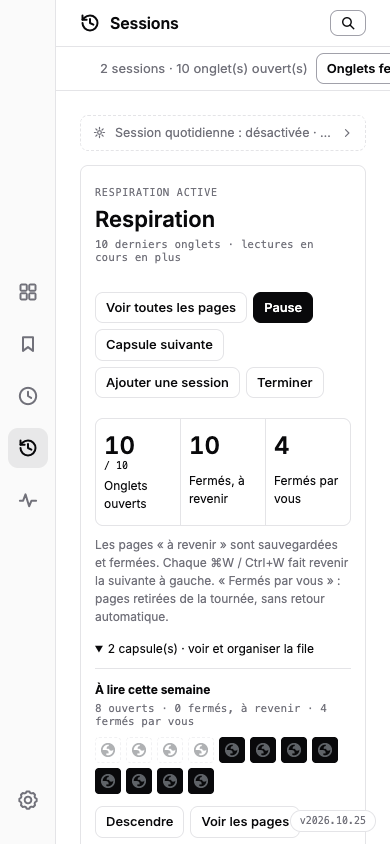
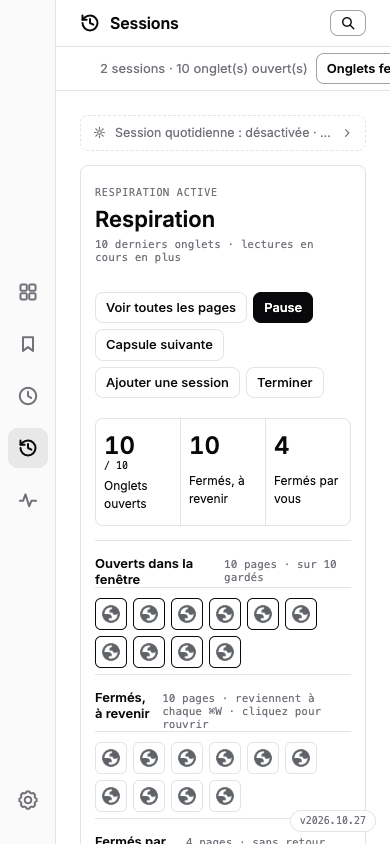
maj: respiration en trois sections par etat avec toutes les favicones et sessions fluide pendant une restauration massive (lots, squelette, fenetres en direct)

Changed region(s): [[0.2462, 0.6161, 0.8923, 1.0]]

diff --git a/extension/sessions.js b/extension/sessions.js
@@ -51,12 +51,69 @@
   const esc = (s) => String(s ?? "").replace(/[&<>"']/g, (c) => ({ "&": "&amp;", "<": "&lt;", ">": "&gt;", '"': "&quot;", "'": "&#39;" }[c]));
   const root = () => document.getElementById("sessions-root");
 
+  /* Squelettes de premier chargement : un écran de structure plutôt qu'une
+     page vide pendant que le service worker répond. Remplacés au premier rendu. */
+  function showSkeleton() {
+    const host = root();
+    if (!host || library) return;
+    const resp = document.getElementById("respiration-root");
+    if (resp && !resp.childElementCount) {
+      resp.innerHTML = `<section class="respiration-card tl-skel" aria-hidden="true"><div class="respiration-head"><div class="tl-sk-col"><span class="tl-sk-line" style="width:130px"></span><span class="tl-sk-line" style="width:230px"></span></div></div><div class="respiration-stats"><div><span class="tl-sk-line" style="width:55%"></span></div><div><span class="tl-sk-line" style="width:55%"></span></div><div><span class="tl-sk-line" style="width:55%"></span></div></div></section>`;
+    }
+    if (host.childElementCount) return;
+    host.innerHTML = Array.from({ length: 3 }, () => `<section class="tl-session tl-skel" aria-hidden="true"><div class="tl-head"><span class="tl-sk-line" style="width:34%"></span></div><div class="tl-body"><figure class="tl-preview tl-sk-block"></figure><div class="tl-list">${Array.from({ length: 4 }, () => `<div class="tl-row tl-sk-row"><span class="tl-sk-dot"></span><span class="tl-sk-line" style="width:48%"></span><span class="tl-sk-line" style="width:12%"></span></div>`).join("")}</div></div></section>`).join("");
+  }
+
+  /* Bandeau d'action longue (restauration, fusion…) : visible au-dessus de la
+     timeline sans bloquer l'écran, retiré dès la fin de l'action. */
+  let busyLabelActive = "";
+  function showBusyLabel(label = "") {
+    const host = root();
+    if (!host) return;
+    busyLabelActive = label;
+    let el = document.getElementById("tl-busy");
+    if (!label) { el?.remove(); return; }
+    if (!el) {
+      el = document.createElement("div");
+      el.id = "tl-busy";
+      el.setAttribute("role", "status");
+      host.prepend(el);
+    }
+    el.innerHTML = `${icon("clock", 13)} <span>${esc(label)}</span>`;
+  }
+
   async function request(type, payload = {}) {
-    if (type.startsWith("respiration-") && respirationProtocol !== 2)
-      throw new Error("Respiration n’est pas à jour : rechargez PK Web Memory dans chrome://extensions, puis rechargez cette page. Vos capsules sont conservées.");
+    if (type.startsWith("respiration-") && respirationProtocol !== 3)
+      throw new Error("Respiration vient d’être mise à jour : rechargez cette page (⌘R). La tournée et vos capsules sont conservées ; si le message revient, rechargez l’extension dans chrome://extensions.");
     const response = await chrome.runtime.sendMessage({ type, payload });
     if (!response?.ok) throw new Error(response?.error || "Le service worker ne répond pas. Rechargez l’extension.");
     return response.data;
+  }
+
+  /* Fenêtres et onglets vivants lus directement par la page : lecture pure,
+     aucun passage par le service worker — la section Sessions reste réactive
+     même pendant une rafale de créations d'onglets (restauration massive). */
+  async function localLive() {
+    try {
+      const [wins, groups] = await Promise.all([
+        chrome.windows.getAll({ populate: true, windowTypes: ["normal"] }),
+        chrome.tabGroups.query({}),
+      ]);
+      const byId = new Map(groups.map((group) => [group.id, group]));
+      return wins.filter((win) => !win.incognito).map((win) => ({
+        id: win.id, focused: win.focused,
+        ignored: win.tabs.filter((tab) => !C().tabURL(tab)).length,
+        tabs: win.tabs.filter((tab) => C().tabURL(tab)).map((tab) => {
+          const group = byId.get(tab.groupId);
+          return {
+            id: tab.id, windowId: win.id, url: C().tabURL(tab), originalUrl: tab.pendingUrl || tab.url,
+            title: tab.title || C().tabURL(tab), pinned: tab.pinned, active: tab.active,
+            discarded: tab.discarded, audible: tab.audible, lastAccessed: tab.lastAccessed,
+            group: group ? String(group.id) : "", groupTitle: group?.title || "", groupColor: group?.color || "grey",
+          };
+        }),
+      }));
+    } catch { return []; }
   }
 
   function toast(msg, undo) {
@@ -231,24 +288,36 @@
       host.innerHTML = `<section class="respiration-card"><div class="respiration-head"><div><span class="respiration-eyebrow">VOTRE NAVIGATION, PLUS LÉGÈRE</span><h2>Respiration</h2><p>Gardez les 10 derniers onglets. Fermez-en un avec ⌘W : le suivant revient tout seul.</p></div>${button("setup", "Activer Respiration", "", true)}</div>${q ? `<p class="respiration-note">La tournée précédente reste enregistrée dans vos sessions. ${button("resume", "Reprendre cette tournée")}</p>` : ""}</section>`;
       return;
     }
-    const waiting = q.entries.filter((e) => e.state === "pending").length;
-    const done = q.entries.filter((e) => e.state === "done").length;
+    const openEntries = q.entries.filter((e) => e.state === "open");
+    const pendingEntries = q.entries.filter((e) => e.state === "pending");
+    const doneEntries = q.entries.filter((e) => e.state === "done");
+    const outsideEntries = q.entries.filter((e) => e.state === "outside");
     const opened = windows.find((w) => w.id === q.windowId)?.tabs.length || 0;
     const complete = q.entries.every((e) => ["done", "outside"].includes(e.state));
-    const playing = q.entries.filter((e) => e.state === "open" && e.keepReason === "media").length;
+    const playing = openEntries.filter((e) => e.keepReason === "media").length;
     const label = q.paused ? "EN PAUSE" : opened > q.target + playing ? "RÉDUCTION INCOMPLÈTE" : complete ? "TOURNÉE TERMINÉE" : "RESPIRATION ACTIVE";
     const reasons = { media: "Lecture en cours (vidéo ou audio) · seule exception", changed: "Page modifiée pendant la réduction", refused: "Fermeture refusée par Chrome" };
-    const kept = q.entries.filter((e) => e.state === "open" && e.keepReason
+    const kept = openEntries.filter((e) => e.keepReason
       && windows.find((w) => w.id === q.windowId)?.tabs.some((t) => t.id === e.tabId));
     const keptHTML = opened > q.target ? `<details class="respiration-kept" open><summary>${playing ? `${playing} lecture(s) en cours conservée(s) en plus des ${q.target} derniers onglets` : "La réduction doit être relancée"}</summary><ul>${kept.map((e) => `<li>${faviconImg(e)}${button("focus-tab", esc(e.title), String(e.tabId))}<span>${esc(reasons[e.keepReason] || "Ancienne exception · relancez la réduction")}</span></li>`).join("")}</ul></details>` : "";
+    // Chaque page est un bouton-favicône : un clic active l'onglet s'il est
+    // ouvert, sinon rouvre la page. Toutes les pages sont affichées — pas
+    // d'échantillon : la grille montre réellement les 97, 186, etc.
+    const fav = (e) => {
+      const live = e.state === "open" && e.tabId != null;
+      const action = live ? "focus-tab" : "open-page";
+      const state = e.keepReason === "media" && e.state === "open" ? "▶ Lecture en cours" : respirationState(e.state);
+      return `<button type="button" class="respiration-fav" data-r-action="${action}"${live ? ` data-id="${e.tabId}"` : ""} data-url="${esc(e.url)}" title="${esc(`${e.title} — ${state}`)}" aria-label="${esc(`${e.title} — ${state}`)}">${faviconImg(e)}</button>`;
+    };
+    const group = (state, title, hint, entries) => `<section class="respiration-group" data-r-section="${state}"><header><strong>${title}</strong><span>${entries.length} page${entries.length > 1 ? "s" : ""}${hint ? ` · ${hint}` : ""}</span></header>${entries.length ? `<div class="respiration-grid">${entries.map(fav).join("")}</div>` : `<p class="respiration-note">Rien ici pour l’instant.</p>`}</section>`;
     const capsules = q.capsules.map((c, i) => {
       const entries = q.entries.filter((e) => e.capsuleId === c.id);
       const left = entries.filter((e) => e.state === "pending").length;
       const live = entries.filter((e) => e.state === "open").length;
       const treated = entries.filter((e) => e.state === "done").length;
-      return `<li><div class="respiration-capsule"><strong>${esc(c.title)}</strong><span>${live} ouverts · ${left} fermés, à revenir · ${treated} fermés par vous</span><div class="respiration-mosaic">${entries.slice().reverse().slice(0, 24).map((e) => `<span data-state="${esc(e.state)}" title="${esc(`${e.title} — ${respirationState(e.state)}`)}">${faviconImg(e)}</span>`).join("")}</div></div><div class="respiration-actions">${i ? button("up", "Monter", c.id) : ""}${i < q.capsules.length - 1 ? button("down", "Descendre", c.id) : ""}${button("view", "Voir les pages", c.id)}</div></li>`;
+      return `<li><div class="respiration-capsule"><strong>${esc(c.title)}</strong><span>${live} ouverts · ${left} à revenir · ${treated} fermés par vous</span></div><div class="respiration-actions">${i ? button("up", "Monter", c.id) : ""}${i < q.capsules.length - 1 ? button("down", "Descendre", c.id) : ""}${button("view", "Voir les pages", c.id)}</div></li>`;
     }).join("");
-    host.innerHTML = `<section class="respiration-card"><div class="respiration-head"><div><span class="respiration-eyebrow">${label}</span><h2>Respiration <span class="respiration-budget">${q.target} derniers onglets · lectures en cours en plus</span></h2></div><div class="respiration-actions">${button("view", "Voir toutes les pages")}${button(q.paused ? "resume" : "pause", q.paused ? "Reprendre" : "Pause", "", true)}${opened > q.target ? button("compact", `Réduire à ${q.target} onglets`) : ""}${button("next", "Capsule suivante")}${button("enqueue-dialog", "Ajouter une session")}${button("stop", "Terminer")}</div></div><div class="respiration-stats" role="status"><div data-state="open"><strong>${opened}<small> / ${q.target}${playing ? ` + ${playing} lecture(s)` : ""}</small></strong><span>Onglets ouverts</span></div><div data-state="pending"><strong>${waiting}</strong><span>Fermés, à revenir</span></div><div data-state="done"><strong>${done}</strong><span>Fermés par vous</span></div></div>${q.reason ? `<p class="respiration-note">${esc(q.reason)}</p>` : ""}<p class="respiration-note">Les pages « à revenir » sont sauvegardées et fermées. Chaque ⌘W / Ctrl+W fait revenir la suivante à gauche. « Fermés par vous » : pages retirées de la tournée, sans retour automatique.</p>${keptHTML}<details data-r-capsules><summary>${q.capsules.length} capsule(s) · voir et organiser la file</summary><ol class="respiration-capsules">${capsules}</ol></details></section>`;
+    host.innerHTML = `<section class="respiration-card"><div class="respiration-head"><div><span class="respiration-eyebrow">${label}</span><h2>Respiration <span class="respiration-budget">${q.target} derniers onglets · lectures en cours en plus</span></h2></div><div class="respiration-actions">${button("view", "Voir toutes les pages")}${button(q.paused ? "resume" : "pause", q.paused ? "Reprendre" : "Pause", "", true)}${opened > q.target ? button("compact", `Réduire à ${q.target} onglets`) : ""}${button("next", "Capsule suivante")}${button("enqueue-dialog", "Ajouter une session")}${button("stop", "Terminer")}</div></div><div class="respiration-stats" role="status"><div data-state="open"><strong>${opened}<small> / ${q.target}${playing ? ` + ${playing} lecture(s)` : ""}</small></strong><span>Onglets ouverts</span></div><div data-state="pending"><strong>${pendingEntries.length}</strong><span>Fermés, à revenir</span></div><div data-state="done"><strong>${doneEntries.length}</strong><span>Fermés par vous</span></div></div>${q.reason ? `<p class="respiration-note">${esc(q.reason)}</p>` : ""}${keptHTML}<div class="respiration-groups">${group("open", "Ouverts dans la fenêtre", `sur ${q.target} gardés`, openEntries)}${group("pending", "Fermés, à revenir", "reviennent à chaque ⌘W · cliquez pour rouvrir", pendingEntries)}${group("done", "Fermés par vous", "sans retour automatique", doneEntries)}${outsideEntries.length ? group("outside", "Déplacés ailleurs", "", outsideEntries) : ""}</div><p class="respiration-note">Survolez une favicône pour son titre ; cliquez pour activer l’onglet ouvert ou rouvrir la page.</p><details data-r-capsules><summary>${q.capsules.length} capsule(s) · ordre du prochain retour et organisation</summary><ol class="respiration-capsules">${capsules}</ol></details></section>`;
     if (expandedQueue) host.querySelector("[data-r-capsules]").open = true;
     if (focused?.rAction) [...host.querySelectorAll("[data-r-action]")]
       .find((el) => el.dataset.rAction === focused.rAction && el.dataset.id === focused.id)?.focus({ preventScroll: true });
@@ -320,6 +389,10 @@
       if (action === "setup") { await refresh(); return respirationSetup(); }
       if (action === "view") return respirationPages(id);
       if (action === "focus-tab") return request("focus", { id: Number(id) });
+      if (action === "open-page") {
+        if (button.dataset.url) await chrome.tabs.create({ url: button.dataset.url });
+        return;
+      }
       if (action === "enqueue-dialog") return respirationEnqueue();
       const current = await chrome.windows.getCurrent();
       const result = await request(`respiration-${action}`, { id, windowId: current.id });
@@ -329,7 +402,8 @@
 
   function render() {
     const core = C();
-    if (!library || !root()) return;
+    if (!root()) return;
+    if (!library) { showSkeleton(); return; }
     renderRespiration();
     const liveWindows = windows.map(liveSession).filter((session) => core.tabCount(session));
     const sessions = library.sessions.filter((session) => !session.archived && !session.auto)
@@ -403,6 +477,7 @@
       if (first) setPreview(figure, first.dataset.url, first.dataset.title);
     }
     fillThumbs();
+    if (busyLabelActive) showBusyLabel(busyLabelActive); // le rendu a remplacé le DOM : le bandeau revient
   }
 
   // Après une fusion ou un dédoublonnage : amène la session concernée à l'écran
@@ -453,8 +528,10 @@
 
   let lastSignature = "";
   async function refresh() {
-    const result = await request("get");
-    library = result.library; windows = result.windows; respiration = result.respiration;
+    // La bibliothèque vient du service worker (écrivain unique) ; les fenêtres
+    // vivantes sont lues ici même, en parallèle — jamais bloquées par la file.
+    const [result, live] = await Promise.all([request("get"), localLive()]);
+    library = result.library; windows = live.length ? live : windows; respiration = result.respiration;
     respirationProtocol = result.respirationProtocol || 0;
     if (respiration && document.getElementById("bss-dialog")?.open) respirationPageView?.();
     renderSessionsHint();
@@ -734,8 +811,18 @@
         const result = await request("delete", { id });
         await refresh(); toast(result.message); return;
       }
+      if (action === "restore") {
+        const target = sessionById(id);
+        showBusyLabel(`Ouverture de ${C().tabCount(target)} onglets…`);
+        let result;
+        try { result = await request("restore", { id }); }
+        finally { showBusyLabel(""); }
+        await refresh();
+        toast(result.message);
+        return;
+      }
       let result;
-      if (["favorite", "archive", "restore", "dedupe"].includes(action)) {
+      if (["favorite", "archive", "dedupe"].includes(action)) {
         result = await request(action, { id });
       } else return;
       await refresh();
@@ -945,7 +1032,10 @@
     chrome.storage.local.get("settings").then((stored) => {
       if (stored?.settings?.thumbsMode) thumbsMode = stored.settings.thumbsMode;
     }).catch(() => {});
-    await refresh();
+    showSkeleton();
+    // Un premier « get » qui échoue (service worker en cours de démarrage) ne
+    // doit pas laisser l'écran vide : le filet et les événements retentent.
+    await refresh().catch(() => scheduleRefresh());
   }
 
   bindSessionSettings();

diff --git a/extension/style.css b/extension/style.css
@@ -724,11 +724,34 @@ input[type="search"] { flex: 1; max-width: 380px; }
 .respiration-stats strong { font: 600 28px var(--sans); font-variant-numeric: tabular-nums; }
 .respiration-stats small { font: 400 12px var(--mono); }
 .respiration-stats span { font-size: 12px; }
-.respiration-mosaic { display: flex; flex-wrap: wrap; gap: 5px; margin-top: 6px; }
-.respiration-mosaic > span { padding: 4px; border: 1px dashed var(--border); border-radius: 4px; display: inline-flex; }
-.respiration-mosaic > [data-state="open"] { background: var(--fg); border: 1px solid var(--fg); }
-.respiration-mosaic > [data-state="done"] { opacity: .5; }
-.respiration-mosaic .tl-fav { width: 16px; height: 16px; }
+.respiration-groups { margin-top: 14px; }
+.respiration-group { border-top: 1px solid var(--border); padding: 14px 0 6px; }
+.respiration-group header { display: flex; align-items: baseline; justify-content: space-between; gap: 12px; margin-bottom: 10px; }
+.respiration-group header strong { font: 600 13px var(--sans); }
+.respiration-group header span { color: var(--muted); font: 400 11px var(--mono); }
+.respiration-grid { display: flex; flex-wrap: wrap; gap: 6px; }
+.respiration-fav { display: inline-flex; padding: 5px; border: 1px solid var(--border); border-radius: 6px; background: none; cursor: pointer; }
+.respiration-fav img { width: 20px; height: 20px; display: block; }
+.respiration-fav:hover { border-color: var(--fg); }
+.respiration-fav:focus-visible { outline: 2px solid var(--fg); outline-offset: 2px; }
+.respiration-group[data-r-section="open"] .respiration-fav { border-color: var(--fg); }
+.respiration-group[data-r-section="done"] .respiration-fav { opacity: .55; }
+.respiration-group[data-r-section="done"] .respiration-fav:hover { opacity: 1; }
+
+/* Squelettes de premier chargement : une structure visible au lieu d'un
+   écran vide pendant que le service worker répond. */
+.tl-skel { pointer-events: none; }
+.tl-sk-line { display: inline-block; height: 10px; border-radius: 5px; background: color-mix(in srgb, var(--fg) 10%, var(--bg)); animation: tl-sk-pulse 1.4s ease-in-out infinite; }
+.tl-sk-col { display: grid; gap: 8px; margin-bottom: 4px; }
+.tl-sk-block { min-height: 120px; background: color-mix(in srgb, var(--fg) 6%, var(--bg)); border: 1px solid var(--border); border-radius: 8px; animation: tl-sk-pulse 1.4s ease-in-out infinite; }
+.tl-sk-dot { width: 16px; height: 16px; flex: none; border-radius: 50%; background: color-mix(in srgb, var(--fg) 10%, var(--bg)); }
+.tl-sk-row { display: flex; align-items: center; gap: 12px; }
+.tl-skel .tl-preview { max-width: 240px; width: 100%; }
+@keyframes tl-sk-pulse { 0%, 100% { opacity: 1; } 50% { opacity: .45; } }
+@media (prefers-reduced-motion: reduce) { .tl-sk-line, .tl-sk-block { animation: none; } }
+
+/* Bandeau d'action longue (restauration de session…) : visible sans bloquer. */
+#tl-busy { display: flex; align-items: center; gap: 8px; margin: 0 0 14px; padding: 10px 14px; border: 1px solid var(--border); border-radius: 8px; background: var(--bg); color: var(--fg); font: 500 12px var(--sans); position: sticky; top: 0; z-index: 5; }
 .respiration-filters { display: grid; grid-template-columns: minmax(0, 1fr) minmax(160px, 28%); gap: 16px; }
 .respiration-pages { min-height: 0; overflow: auto; scrollbar-gutter: stable; }
 .respiration-pages ul { list-style: none; padding: 0; margin: 12px 0 0; }

diff --git a/extension/respiration.js b/extension/respiration.js
@@ -309,21 +309,28 @@
       if (e) { e.state = "outside"; e.tabId = null; }
       await write(q);
     }
-    async function updated(tab) {
-      const q = await get();
-      if (!q || q.stopped || tab.windowId !== q.windowId || !web(tab)) return;
+    async function applyUpdate(q, tab) {
+      if (!q || q.stopped || tab.windowId !== q.windowId || !web(tab)) return { changed: false };
       tab = await chrome.tabs.get(tab.id).catch(() => null);
-      if (!tab || tab.windowId !== q.windowId || !web(tab)) return;
+      if (!tab || tab.windowId !== q.windowId || !web(tab)) return { changed: false };
+      const url = urlOf(tab);
       let e = q.entries.find((item) => item.state === "open" && item.tabId === tab.id);
-      if (!e) e = q.entries.find((item) => item.state === "pending" && item.url === urlOf(tab));
-      if (!e) {
-        if (!q.paused && (await windowTabs(q.windowId) || []).filter(web).length > q.target) await compact(q);
-        return;
-      }
-      const title = tab.title || urlOf(tab);
-      if (e.state === "open" && e.url === urlOf(tab) && e.title === title) return;
-      e.state = "open"; e.tabId = tab.id; e.url = urlOf(tab); e.title = title;
-      await write(q);
+      if (!e) e = q.entries.find((item) => item.state === "pending" && item.url === url);
+      if (!e) return { changed: false, unmatched: true };
+      const title = tab.title || url;
+      if (e.state === "open" && e.url === url && e.title === title) return { changed: false };
+      e.state = "open"; e.tabId = tab.id; e.url = url; e.title = title;
+      return { changed: true };
+    }
+    async function updated(tab) { return updatedMany([tab]); }
+    // Une rafale d'ouvertures (restauration, Session Buddy…) ne doit pas écrire
+    // la file une fois par onglet : un lot = une écriture. Le budget lui-même
+    // reste tenu par tick(), jamais au milieu d'une restauration en cours.
+    async function updatedMany(tabs) {
+      const q = await get();
+      let changed = false;
+      for (const tab of tabs) if ((await applyUpdate(q, tab)).changed) changed = true;
+      if (changed) await write(q);
     }
     async function tick() {
       const q = await get();
@@ -340,7 +347,7 @@
       for (const e of selected) { e.state = "pending"; e.tabId = null; }
       await write(q);
     }
-    return { get, command, noticeRemoval, removed, detached, updated, externalClose, tick };
+    return { get, command, noticeRemoval, removed, detached, updated, updatedMany, externalClose, tick };
   }
   globalThis.PKRespiration = { KEY, create, nextEntry, pending, inspectPage };
 })();

diff --git a/extension/sw.js b/extension/sw.js
@@ -130,9 +130,25 @@ chrome.tabs.onRemoved.addListener((id, info) => {
   if (respiration.noticeRemoval(id, info)) libSerial(() => respiration.removed(id, info)).catch(console.error);
 });
 chrome.tabs.onDetached.addListener((id, info) => libSerial(() => respiration.detached(id, info)).catch(console.error));
-chrome.tabs.onCreated.addListener((tab) => libSerial(() => respiration.updated(tab)).catch(console.error));
+// Les événements d'onglets sont regroupés par lot : restaurer 100 pages ne
+// doit pas écrire la file 100 fois ni bloquer la page Sessions derrière la
+// file d'écritures. Un lot = une écriture, 250 ms après le dernier événement.
+const tabUpdateBatch = new Map();
+let tabUpdateTimer = 0;
+function queueTabUpdate(tab) {
+  if (!tab?.id) return;
+  tabUpdateBatch.set(tab.id, tab);
+  if (tabUpdateTimer) return;
+  tabUpdateTimer = setTimeout(() => {
+    tabUpdateTimer = 0;
+    const batch = [...tabUpdateBatch.values()];
+    tabUpdateBatch.clear();
+    libSerial(() => respiration.updatedMany(batch)).catch(console.error);
+  }, 250);
+}
+chrome.tabs.onCreated.addListener((tab) => queueTabUpdate(tab));
 chrome.tabs.onUpdated.addListener((id, changes, tab) => {
-  if (changes.url || changes.title || changes.status === "complete") libSerial(() => respiration.updated(tab)).catch(console.error);
+  if (changes.url || changes.title || changes.status === "complete") queueTabUpdate(tab);
 });
 async function libState() {
   const stored = await chrome.storage.local.get(LIB_KEY);
@@ -543,7 +559,10 @@ async function runDaily() {
 async function libDispatch(message) {
   const library = await libState();
   const payload = message.payload || {};
-  if (message.type === "get") return { library, windows: await libLive(), respiration: await respiration.get(), respirationProtocol: 2 };
+  // Réponse volontairement légère : la page calcule elle-même les fenêtres
+  // vivantes directement via les API Chrome (lecture pure, sans passer par la
+  // file d'écritures) — la section Sessions s'affiche même pendant une rafale.
+  if (message.type === "get") return { library, respiration: await respiration.get(), respirationProtocol: 3 };
   if (message.type?.startsWith("respiration-")) {
     const type = message.type.slice("respiration-".length);
     const session = type === "enqueue" ? library.sessions.find((s) => s.id === payload.id) : undefined;

diff --git a/README.md b/README.md
@@ -6,7 +6,7 @@
 
 [🇫🇷 Français](README.md) · [🇬🇧 English](README.en.md)
 
-Votre vie web, organisée : **favoris, historique, sessions et liens utiles réunis dans un seul espace.** Extension Chrome sans étape de build ni dépendance distante à installer. Version **2026.10.27**.
+Votre vie web, organisée : **favoris, historique, sessions et liens utiles réunis dans un seul espace.** Extension Chrome sans étape de build ni dépendance distante à installer. Version **2026.10.28**.
 
 ## Aperçu
 
@@ -54,9 +54,9 @@ Le kit média v4 (`store/v4/`) est la vitrine actuelle : cinq captures 1280×800
 
 Dans **Sessions → Activer Respiration**, choisissez une fenêtre et le nombre d’onglets web à garder (10 par défaut, de 1 à 30). **Seuls les N derniers onglets de la fenêtre restent ouverts ; tout le reste est sauvegardé puis fermé.** La seule exception : une **lecture en cours (vidéo ou audio)**, conservée en plus de la cible puis fermée quand elle s’arrête. Avec 100 pages, vous gardez 91 à 100 : fermer 100 fait revenir 90 à gauche, fermer 99 fait revenir 89, sans prendre le focus. L’ordre est celui des onglets, pas celui des dernières consultations.
 
-Le panneau affiche trois compteurs sans ambiguïté : **Onglets ouverts** (x / cible, lectures en cours en plus), **Fermés, à revenir** — sauvegardés puis fermés, chacun revient au ⌘W suivant — et **Fermés par vous** — pages que vous avez fermées directement, sans retour automatique. « Voir toutes les pages » ouvre un grand panneau : favicône, titre et URL complète par ligne, couleur selon l’état (bordure pleine = ouverte, tirets = à revenir, double = fermée par vous), filtre par état et recherche, mise à jour en direct ; cliquer une page ouverte active son onglet, cliquer une page fermée la rouvre.
+Le panneau affiche trois compteurs et autant de sections, à la même lecture : **Onglets ouverts** (x / cible, lectures en cours en plus) avec la grille des onglets réellement ouverts — un clic les active ; **Fermés, à revenir** — les pages sauvegardées puis fermées, chacune revient au prochain ⌘W, un clic la rouvre ; **Fermés par vous** — les pages retirées de la tournée, sans retour automatique. Chaque page est une favicône (survol : titre et état) et **toutes les pages de la section sont affichées**, pas un échantillon. « Voir toutes les pages » ouvre en plus un grand panneau détaillé : titre, URL complète, filtre par état et recherche, mise à jour en direct.
 
-Les groupes Chrome deviennent des **capsules** (mosaïque de favicônes parlante : pleine = ouverte, atténuée = fermée par vous), et les segments non groupés gardent leur ordre. Ajoutez des sessions à la suite, montez/descendez les capsules ou passez à la suivante. Une page ouverte manuellement fait partie du même budget : elle est sauvegardée dans une capsule « Pages ajoutées à la fenêtre » et la plus ancienne des N dernières sort. La cible est contrôlée à chaque chargement de page et toutes les 30 secondes. **Pause** arrête le remplissage ; **Terminer** désactive la tournée sans fermer les pages ouvertes ni supprimer les sessions.
+Les groupes Chrome deviennent des **capsules** — c’est l’ordre du prochain retour, replié sous « ordre du prochain retour et organisation » : montez/descendez les capsules ou passez à la suivante. Ajoutez des sessions à la suite. Une page ouverte manuellement fait partie du même budget : elle est sauvegardée dans une capsule « Pages ajoutées à la fenêtre » et la plus ancienne des N dernières sort, contrôlée toutes les 30 secondes — jamais au milieu d’une restauration en cours. **Pause** arrête le remplissage ; **Terminer** désactive la tournée sans fermer les pages ouvertes ni supprimer les sessions.
 
 **Enregistrez vos brouillons avant d’activer** : formulaires modifiés, éditeurs remplis, onglets actifs et épinglés sont fermés comme les autres s’ils ne sont pas dans les N derniers — les sauvegardes conservent les liens et métadonnées, pas les saisies. Les pages internes Chrome (chrome://, newtab…) restent ouvertes et hors budget.
 

diff --git a/README.en.md b/README.en.md
@@ -6,7 +6,7 @@
 
 [🇫🇷 Français](README.md) · [🇬🇧 English](README.en.md)
 
-Your browsing life, organized: **bookmarks, history, sessions and your useful links together in one workspace.** Chrome extension with no build step or remote dependencies to install. Version **2026.10.27**.
+Your browsing life, organized: **bookmarks, history, sessions and your useful links together in one workspace.** Chrome extension with no build step or remote dependencies to install. Version **2026.10.28**.
 
 ## Preview
 
@@ -54,9 +54,9 @@ The v4 media kit (`store/v4/`) is the current showcase: five 1280×800 captures 
 
 In **Sessions → Activer Respiration**, choose a window and a target number of web tabs (10 by default, from 1 to 30). **Only the last N tabs of the window stay open; everything else is saved, then closed.** The single exception: **media currently playing (video or audio)**, kept on top of the target and closed once it stops. With 100 pages, you keep 91 through 100: closing 100 brings back 90 on the left, then closing 99 brings back 89, without taking focus. The queue follows tab order, not recently visited order.
 
-The panel shows three unambiguous counters: **Onglets ouverts** (open tabs — x / target, ongoing playback on top), **Fermés, à revenir** — saved then closed, each one returns on the next ⌘W — and **Fermés par vous** — pages you closed yourself, with no automatic return. “Voir toutes les pages” opens a large panel: favicon, title and full URL per row, color-coded state (solid border = open, dashed = queued, double = closed by you), per-state filter and search, updated live; clicking an open page focuses its tab, clicking a closed page reopens it.
+The panel shows three counters and three matching sections, readable at a glance: **Onglets ouverts** (open tabs — x / target, ongoing playback on top) with the grid of actually open tabs — click to activate; **Fermés, à revenir** — every page saved then closed, each one returns on the next ⌘W, click to reopen; **Fermés par vous** — pages you closed yourself, with no automatic return. Every page is a favicon (hover: title and state) and **every page in the section is displayed**, not a sample. “Voir toutes les pages” additionally opens a large detailed panel: title, full URL, per-state filter and search, updated live.
 
-Chrome groups become **capsules** (with a speaking favicon mosaic: solid = open, dimmed = closed by you), while consecutive ungrouped tabs retain their order. Append saved sessions, move capsules up/down or skip to the next capsule. A manually opened page belongs to the same budget: it is saved into a “Pages ajoutées à la fenêtre” capsule and the oldest of the last N tabs leaves. The target is rechecked on every page load and every 30 seconds. **Pause** stops refilling; **Terminer** stops the tour without closing open pages or deleting saved sessions.
+Chrome groups become **capsules** — the return order, folded under “ordre du prochain retour et organisation”: move capsules up/down or skip to the next one. Append saved sessions, move capsules up/down or skip to the next capsule. A manually opened page belongs to the same budget: it is saved into a “Pages ajoutées à la fenêtre” capsule and the oldest of the last N tabs leaves, checked every 30 seconds — never in the middle of a restore. **Pause** stops refilling; **Terminer** stops the tour without closing open pages or deleting saved sessions.
 
 **Save your drafts before activating**: modified forms, filled editors, active and pinned tabs are closed like any others when outside the last N — backups keep links and metadata, not what you typed. Chrome internal pages (chrome://, new tab…) stay open and outside the budget.
 

diff --git a/CHANGELOG.md b/CHANGELOG.md
@@ -1,4 +1,15 @@
 # Changelog
+## [2026.10.28] - 2026-10-18
+
+### Changed
+
+- **Respiration : trois sections lisibles par état** — le panneau affiche les grilles de favicônes des onglets **Ouverts dans la fenêtre**, des pages **Fermées, à revenir** et des pages **Fermées par vous**. Toutes les pages sont affichées (fini l'échantillon de 24) ; survol = titre et état, clic = active l'onglet ouvert ou rouvre la page. L'ordre de retour (capsules) est replié sous « ordre du prochain retour et organisation » ; « Voir toutes les pages » reste le panneau détaillé (titre, URL, filtres, recherche).
+- **Onglet Sessions fluide pendant une restauration massive** : les événements d'onglets sont regroupés par lots (une écriture au lieu d'une par onglet) et la page lit les fenêtres vivantes directement, sans passer par la file d'écritures du service worker. « Tout rouvrir » affiche un bandeau « Ouverture de N onglets… », un squelette de chargement remplace l'écran vide au premier affichage, et les données apparaissent sans changer d'onglet et revenir.
+
+### Fixed
+
+- **Le budget Respiration ne coupe plus une restauration en cours** : les pages ouvertes manuellement sont contrôlées par le cycle périodique (30 s) — sauvegardées puis réduites — au lieu d'une fermeture déclenchée au milieu de l'ouverture de 106 onglets.
+
 ## [2026.10.27] - 2026-10-18
 
 ### Added

diff --git a/store/respiration/README.md b/store/respiration/README.md
@@ -1,4 +1,4 @@
-# Respiration · 2026.10.26
+# Respiration · 2026.10.28
 
 Captures de l’extension réelle dans un profil Chrome for Testing jetable, avec
 des pages fictives servies sur localhost (dont une page vidéo locale lue via
@@ -11,8 +11,8 @@ second scénario avec brouillon dans une iframe, éditeur rempli et vidéo en
 lecture — les deux premiers sont fermés, seule la lecture survit.
 
 - `screenshots/respiration-desktop.png` : 1440 × 1000 — panneau Respiration,
-  trois compteurs (ouverts / fermés à revenir / fermés par vous), capsules
-  dépliées avec leur mosaïque de favicônes.
+  trois compteurs (ouverts / fermés à revenir / fermés par vous) puis les
+  grilles complètes de favicônes par état.
 - `screenshots/respiration-pages.png` : 1440 × 1000 — grand panneau « Voir
   toutes les pages » : favicône, titre, URL complète et état par ligne,
   filtre par état et recherche.
